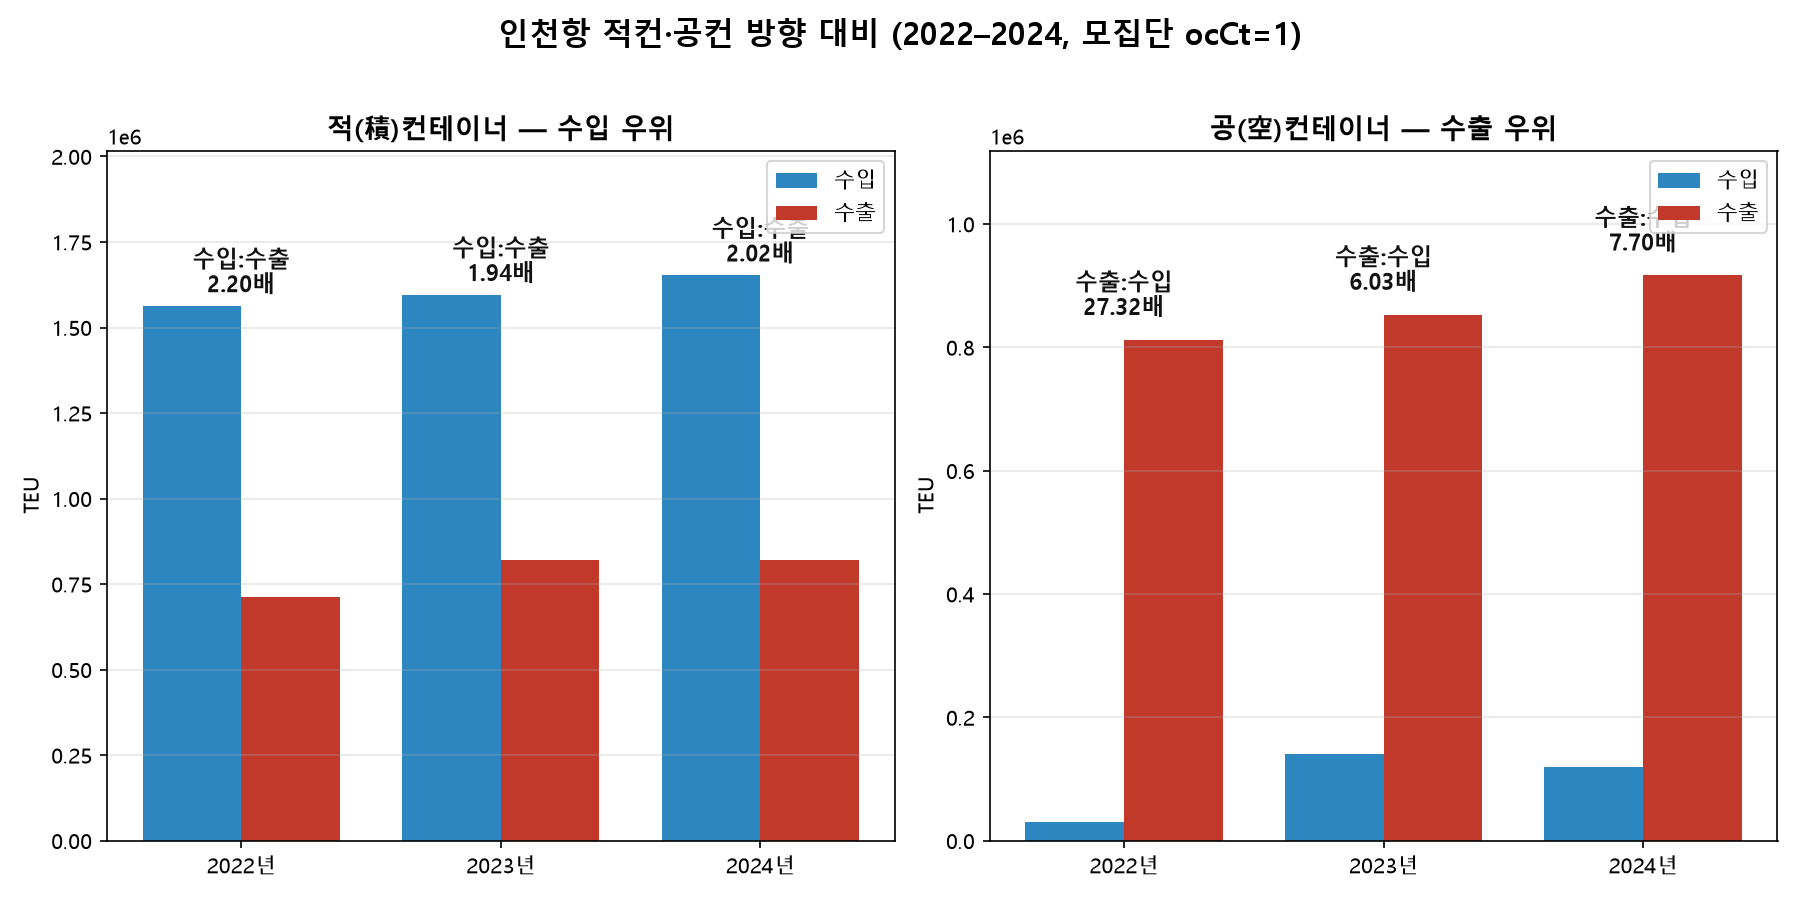
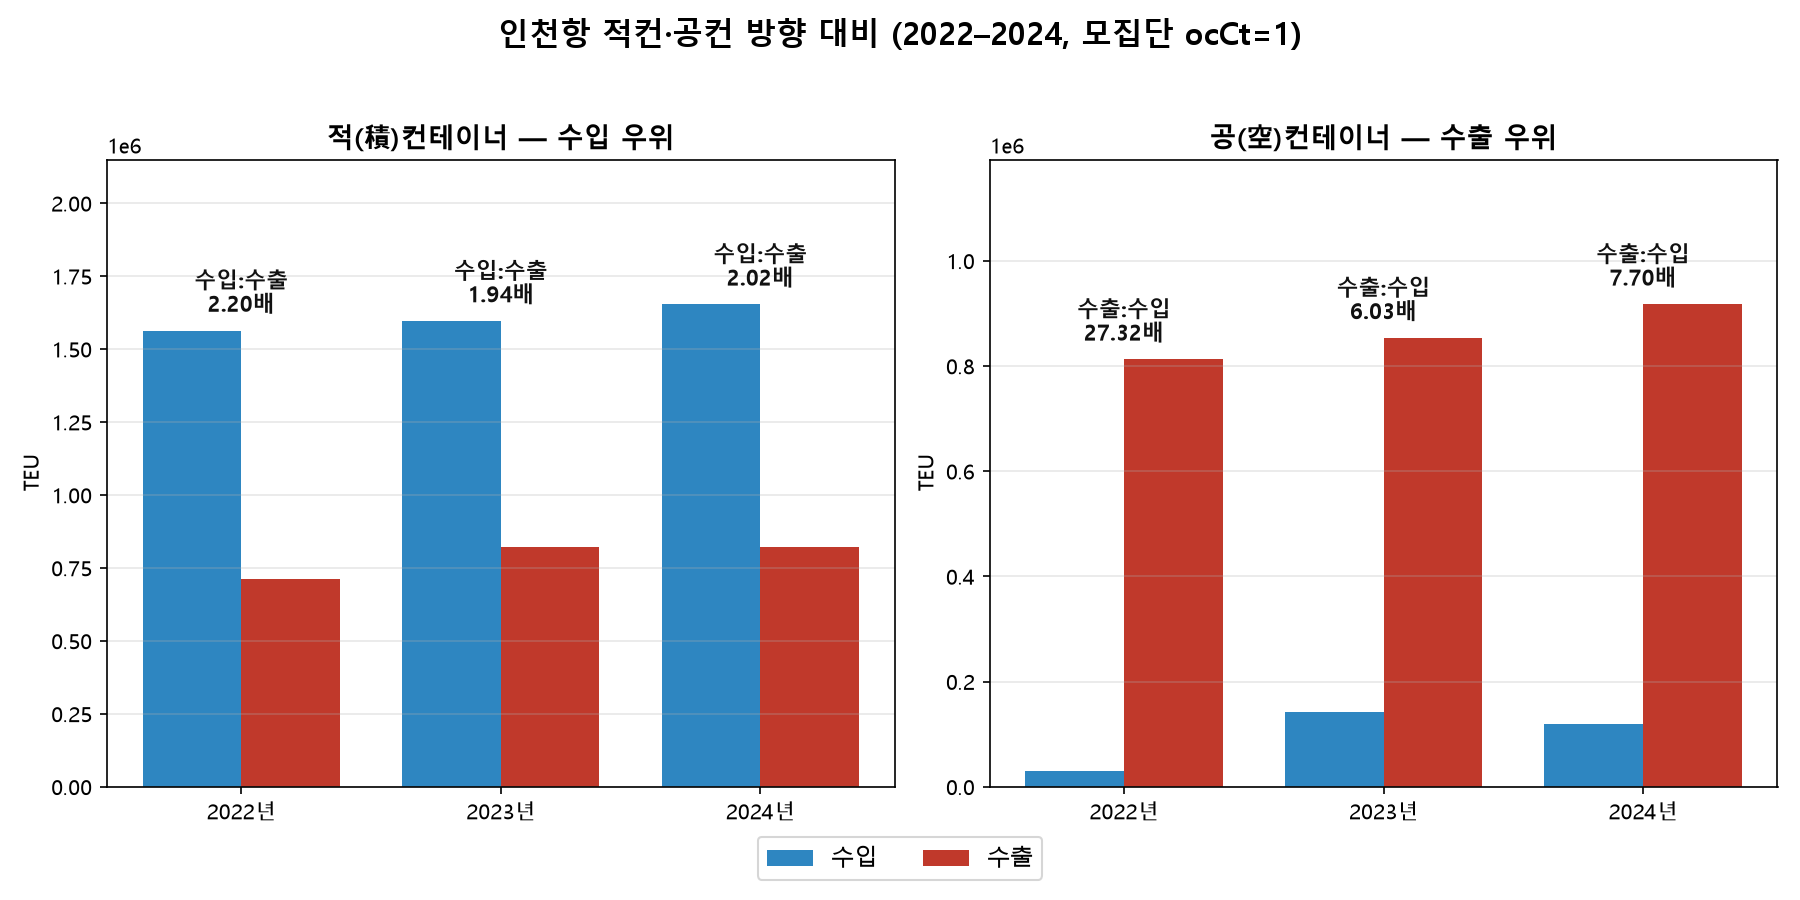
#05 차트1 레이아웃 수정: 범례를 하단으로 분리해 배율 주석과 겹침 해소(수치 불변)

diff --git a/analysis/chart_05_balance.py b/analysis/chart_05_balance.py
@@ -94,13 +94,6 @@ for y in YEARS:
     print(f"  {y}: 적컨수입 {r['jeok_imp']:,.0f} / 적컨수출 {r['jeok_exp']:,.0f} / "
           f"공컨수입 {r['emp_imp']:,.0f} / 공컨수출 {r['emp_exp']:,.0f} / "
           f"적컨배율 {r['jeok_ratio']:.2f} / 공컨배율 {r['emp_ratio']:.2f}")
-print("  [초과분 분해]")
-for y in YEARS:
-    r = res.loc[y]
-    p_emp = r["emp_excess"] / r["jeok_excess"] * 100
-    p_net = r["net_imp"] / r["jeok_excess"] * 100
-    print(f"  {y}: {r['jeok_excess']:,.0f} = 공컨수출초과 {r['emp_excess']:,.0f} ({p_emp:.1f}%) "
-          f"+ 전체순수입 {r['net_imp']:,.0f} ({p_net:.1f}%)")
 
 plt.rcParams["font.family"] = "Malgun Gothic"
 plt.rcParams["axes.unicode_minus"] = False
@@ -111,41 +104,48 @@ fig, (axL, axR) = plt.subplots(1, 2, figsize=(12, 6))
 x = range(len(YEARS))
 w = 0.38
 
+# 왼쪽: 적컨 (수입 우위)
 jimp = [res.loc[y, "jeok_imp"] for y in YEARS]
 jexp = [res.loc[y, "jeok_exp"] for y in YEARS]
 axL.bar([i - w / 2 for i in x], jimp, w, color=C_IMP, label="수입")
 axL.bar([i + w / 2 for i in x], jexp, w, color=C_EXP, label="수출")
+offL = max(jimp) * 0.03  # 막대 높이에 비례한 주석 간격(축 스케일 달라도 일관)
 for i, y in zip(x, YEARS):
-    axL.text(i, max(jimp[i], jexp[i]) + 40000, f"수입:수출\n{res.loc[y,'jeok_ratio']:.2f}배",
-             ha="center", fontsize=11, fontweight="bold", color="#111")
+    axL.text(i, max(jimp[i], jexp[i]) + offL, f"수입:수출\n{res.loc[y,'jeok_ratio']:.2f}배",
+             ha="center", va="bottom", fontsize=10.5, fontweight="bold", color="#111")
 axL.set_title("적(積)컨테이너 — 수입 우위", fontsize=13, fontweight="bold")
 axL.set_xticks(list(x))
 axL.set_xticklabels([f"{y}년" for y in YEARS])
 axL.set_ylabel("TEU")
-axL.set_ylim(0, max(jimp) * 1.22)
-axL.legend(loc="upper right")
+axL.set_ylim(0, max(jimp) * 1.30)  # 주석이 놓일 상단 여백 확보
 axL.grid(True, axis="y", alpha=0.3)
 
+# 오른쪽: 공컨 (수출 우위)
 gimp = [res.loc[y, "emp_imp"] for y in YEARS]
 gexp = [res.loc[y, "emp_exp"] for y in YEARS]
 axR.bar([i - w / 2 for i in x], gimp, w, color=C_IMP, label="수입")
 axR.bar([i + w / 2 for i in x], gexp, w, color=C_EXP, label="수출")
+offR = max(gexp) * 0.03
 for i, y in zip(x, YEARS):
-    axR.text(i, max(gimp[i], gexp[i]) + 40000, f"수출:수입\n{res.loc[y,'emp_ratio']:.2f}배",
-             ha="center", fontsize=11, fontweight="bold", color="#111")
+    axR.text(i, max(gimp[i], gexp[i]) + offR, f"수출:수입\n{res.loc[y,'emp_ratio']:.2f}배",
+             ha="center", va="bottom", fontsize=10.5, fontweight="bold", color="#111")
 axR.set_title("공(空)컨테이너 — 수출 우위", fontsize=13, fontweight="bold")
 axR.set_xticks(list(x))
 axR.set_xticklabels([f"{y}년" for y in YEARS])
 axR.set_ylabel("TEU")
-axR.set_ylim(0, max(gexp) * 1.22)
-axR.legend(loc="upper right")
+axR.set_ylim(0, max(gexp) * 1.30)
 axR.grid(True, axis="y", alpha=0.3)
 
+# 범례는 두 subplot 공통 → 그래프 밖(하단 중앙)에 하나만 두어 주석과 겹치지 않게 한다
+handles, labels = axL.get_legend_handles_labels()
+fig.legend(handles, labels, loc="lower center", ncol=2, fontsize=11, frameon=True,
+           bbox_to_anchor=(0.5, 0.01))
+
 fig.suptitle("인천항 적컨·공컨 방향 대비 (2022–2024, 모집단 ocCt=1)", fontsize=15, fontweight="bold")
-fig.tight_layout(rect=[0, 0, 1, 0.96])
+fig.tight_layout(rect=[0, 0.06, 1, 0.95])  # 하단은 범례, 상단은 suptitle 공간
 fig.savefig("../reports/images/balance_direction_2022_2024.png", dpi=150)
 plt.close(fig)
-print("\n(3) 차트 저장: balance_direction_2022_2024.png")
+print("\n(3) 차트 저장(갱신): balance_direction_2022_2024.png")
 
 plt.figure(figsize=(10, 6))
 emp_ex = [res.loc[y, "emp_excess"] for y in YEARS]